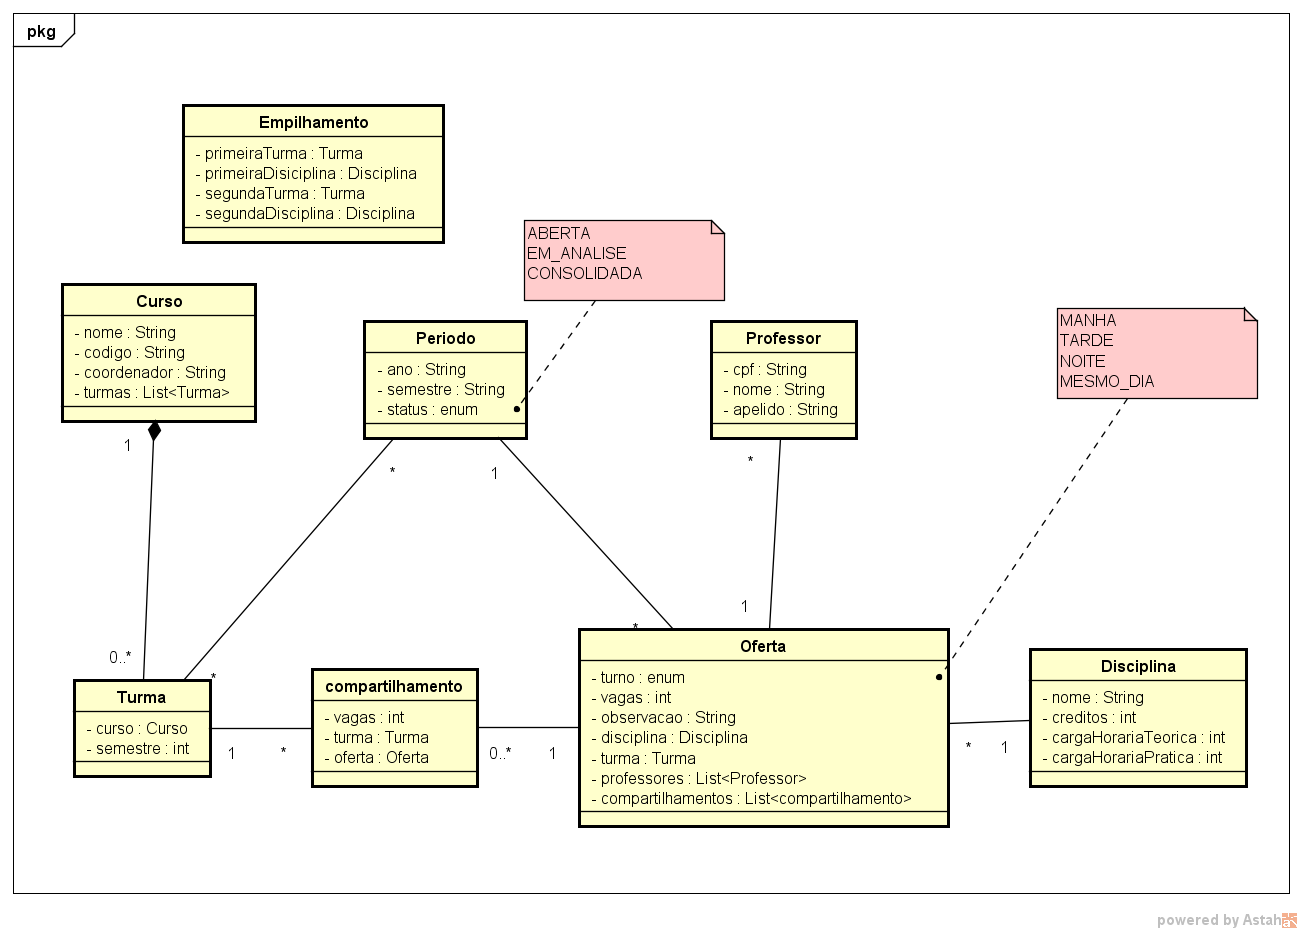
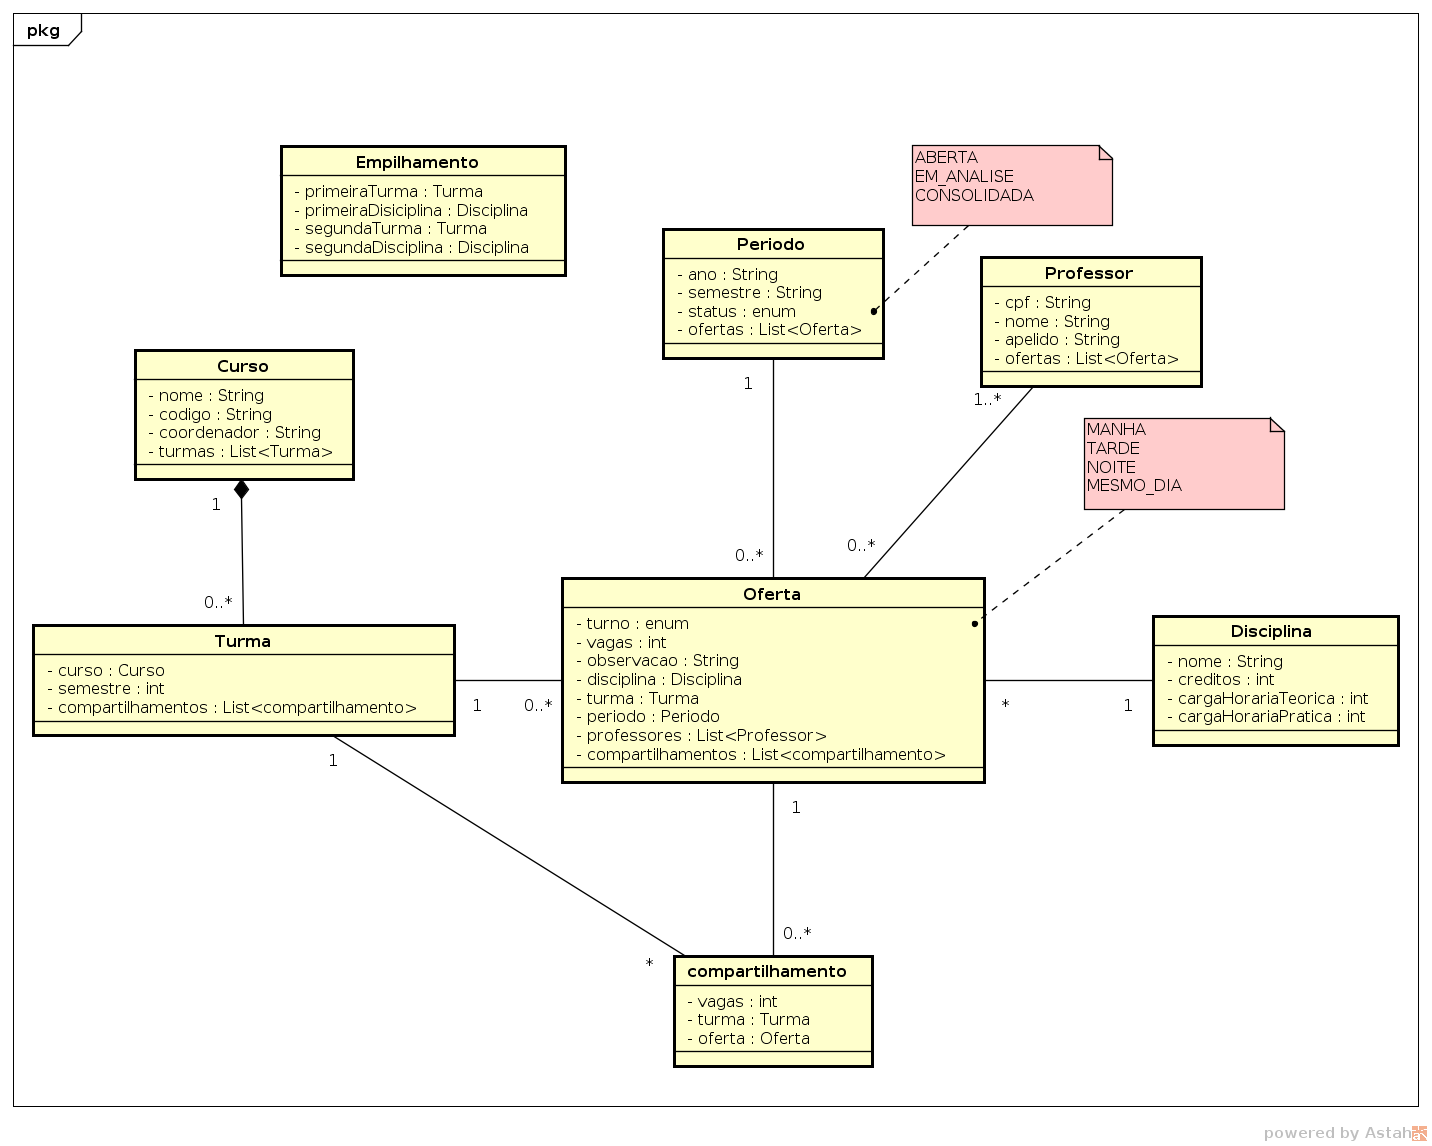
Ajustes nas classes de modelo.

diff --git a/aplicacao/alocacao-professores/src/main/java/ufc/quixada/npi/ap/model/Oferta.java b/aplicacao/alocacao-professores/src/main/java/ufc/quixada/npi/ap/model/Oferta.java
@@ -7,7 +7,6 @@ import java.util.TreeMap;
 import javax.persistence.Entity;
 import javax.persistence.EnumType;
 import javax.persistence.Enumerated;
-import javax.persistence.FetchType;
 import javax.persistence.GeneratedValue;
 import javax.persistence.GenerationType;
 import javax.persistence.Id;
@@ -19,11 +18,7 @@ import javax.persistence.OneToMany;
 
 @Entity
 public class Oferta {
-	
-	//TODO: periodo nome
-	//TODO: variavel de periodo pra oferta ou vice versa (NO MODEL),
-	//TODO: consertar as onetomany
-	//TODO: turma compartilhamento, turma deve ter lista de compartilhamentos ou vice versa?(NO MODEL E CODIGO)	
+		
 	@Id
 	@GeneratedValue(strategy = GenerationType.IDENTITY)
 	private Integer id;
@@ -33,23 +28,26 @@ public class Oferta {
 	private String observacao;
 	
 	@ManyToOne
+	@JoinColumn(name = "disciplina_id")
 	private Disciplina disciplina;
 	
 	@ManyToOne
+	@JoinColumn(name = "turma_id")
 	private Turma turma;
 	
 	@ManyToOne
+	@JoinColumn(name = "periodo_id")
 	private Periodo periodo;
 	
 	@Enumerated(EnumType.STRING)
 	private Turno turno;
 	
-	//@ManyToMany(fetch = FetchType.EAGER)
-	//@JoinTable(name = "professor_oferta", joinColumns = @JoinColumn(name = "oferta_id"), inverseJoinColumns = @JoinColumn(name = "professor_id"))
-	//private List<Professor> professores;
+	@ManyToMany
+	@JoinTable(name = "professor_oferta", joinColumns = @JoinColumn(name = "oferta_id"), inverseJoinColumns = @JoinColumn(name = "professor_id"))
+	private List<Professor> professores;
 	
-	//@OneToMany(fetch = FetchType.EAGER)
-	//private List<Compartilhamento> compartilhamentos;
+	@OneToMany(mappedBy = "oferta")	
+	private List<Compartilhamento> compartilhamentos;
 
 	public Integer getId() {
 		return id;
@@ -107,7 +105,7 @@ public class Oferta {
 		this.turno = turno;
 	}
 
-	/*public List<Professor> getProfessores() {
+	public List<Professor> getProfessores() {
 		return professores;
 	}
 
@@ -121,7 +119,9 @@ public class Oferta {
 
 	public void setCompartilhamentos(List<Compartilhamento> compartilhamentos) {
 		this.compartilhamentos = compartilhamentos;
-	}*/
+	}
+	
+	
 
 	enum Turno{
 		MANHA("Manhã"), TARDE("Tarde"), NOITE("Noite"), MESMO_DIA("Mesmo dia");

diff --git a/aplicacao/alocacao-professores/src/main/java/ufc/quixada/npi/ap/model/Turma.java b/aplicacao/alocacao-professores/src/main/java/ufc/quixada/npi/ap/model/Turma.java
@@ -1,11 +1,14 @@
 package ufc.quixada.npi.ap.model;
 
+import java.util.List;
+
 import javax.persistence.Entity;
 import javax.persistence.GeneratedValue;
 import javax.persistence.GenerationType;
 import javax.persistence.Id;
 import javax.persistence.JoinColumn;
 import javax.persistence.ManyToOne;
+import javax.persistence.OneToMany;
 
 @Entity
 public class Turma {
@@ -18,7 +21,10 @@ public class Turma {
 	@JoinColumn(name = "curso_id")
 	private Curso curso;
 	
-	private String semestre;
+	private int semestre;
+	
+	@OneToMany(mappedBy = "turma")
+	private List<Compartilhamento> compartilhamentos;
 
 	public Integer getId() {
 		return id;
@@ -36,12 +42,20 @@ public class Turma {
 		this.curso = curso;
 	}
 
-	public String getSemestre() {
+	public int getSemestre() {
 		return semestre;
 	}
 
-	public void setSemestre(String semestre) {
+	public void setSemestre(int semestre) {
 		this.semestre = semestre;
 	}
+
+	public List<Compartilhamento> getCompartilhamentos() {
+		return compartilhamentos;
+	}
+
+	public void setCompartilhamentos(List<Compartilhamento> compartilhamentos) {
+		this.compartilhamentos = compartilhamentos;
+	}	
 		
 }

diff --git a/aplicacao/alocacao-professores/src/main/java/ufc/quixada/npi/ap/model/Professor.java b/aplicacao/alocacao-professores/src/main/java/ufc/quixada/npi/ap/model/Professor.java
@@ -1,9 +1,14 @@
 package ufc.quixada.npi.ap.model;
 
+import java.util.List;
+
 import javax.persistence.Entity;
 import javax.persistence.GeneratedValue;
 import javax.persistence.GenerationType;
 import javax.persistence.Id;
+import javax.persistence.JoinColumn;
+import javax.persistence.JoinTable;
+import javax.persistence.ManyToMany;
 
 @Entity
 public class Professor {
@@ -17,6 +22,10 @@ public class Professor {
 	private String cpf;
 	
 	private String apelido;
+	
+	@ManyToMany
+	@JoinTable(name = "professor_oferta", joinColumns = @JoinColumn(name = "professor_id"), inverseJoinColumns = @JoinColumn(name = "oferta_id"))
+	private List<Oferta> ofertas;
 
 	public Integer getId() {
 		return id;
@@ -49,4 +58,14 @@ public class Professor {
 	public void setApelido(String apelido) {
 		this.apelido = apelido;
 	}
+
+	public List<Oferta> getOfertas() {
+		return ofertas;
+	}
+
+	public void setOfertas(List<Oferta> ofertas) {
+		this.ofertas = ofertas;
+	}
+	
+	
 }

diff --git a/aplicacao/alocacao-professores/src/main/java/ufc/quixada/npi/ap/model/Periodo.java b/aplicacao/alocacao-professores/src/main/java/ufc/quixada/npi/ap/model/Periodo.java
@@ -7,7 +7,6 @@ import java.util.TreeMap;
 import javax.persistence.Entity;
 import javax.persistence.EnumType;
 import javax.persistence.Enumerated;
-import javax.persistence.FetchType;
 import javax.persistence.GeneratedValue;
 import javax.persistence.GenerationType;
 import javax.persistence.Id;
@@ -27,7 +26,7 @@ public class Periodo {
 	@Enumerated(EnumType.STRING)
 	private Status status;
 	
-	@OneToMany(fetch = FetchType.EAGER)
+	@OneToMany(mappedBy = "periodo")
 	private List<Oferta> ofertas;
 
 	public Integer getId() {
@@ -69,6 +68,8 @@ public class Periodo {
 	public void setOfertas(List<Oferta> ofertas) {
 		this.ofertas = ofertas;
 	}
+	
+	
 
 	enum Status{
 		ABERTA("Aberta"), EM_ANALISE("Em análise"), CONSOLIDADA("consolidada");

diff --git a/aplicacao/alocacao-professores/src/main/java/ufc/quixada/npi/ap/model/Curso.java b/aplicacao/alocacao-professores/src/main/java/ufc/quixada/npi/ap/model/Curso.java
@@ -3,11 +3,9 @@ package ufc.quixada.npi.ap.model;
 import java.util.List;
 
 import javax.persistence.Entity;
-import javax.persistence.FetchType;
 import javax.persistence.GeneratedValue;
 import javax.persistence.GenerationType;
 import javax.persistence.Id;
-import javax.persistence.JoinColumn;
 import javax.persistence.OneToMany;
 
 @Entity
@@ -22,7 +20,6 @@ public class Curso {
 	private String codigo;
 	
 	private String coordenador;
-	
 	
 	@OneToMany(mappedBy = "curso")
 	private List<Turma> turmas;
@@ -66,5 +63,6 @@ public class Curso {
 	public void setTurmas(List<Turma> turmas) {
 		this.turmas = turmas;
 	}	
+	
 	
 }

diff --git a/aplicacao/alocacao-professores/src/main/java/ufc/quixada/npi/ap/model/Compartilhamento.java b/aplicacao/alocacao-professores/src/main/java/ufc/quixada/npi/ap/model/Compartilhamento.java
@@ -4,6 +4,7 @@ import javax.persistence.Entity;
 import javax.persistence.GeneratedValue;
 import javax.persistence.GenerationType;
 import javax.persistence.Id;
+import javax.persistence.JoinColumn;
 import javax.persistence.ManyToOne;
 
 @Entity
@@ -16,9 +17,11 @@ public class Compartilhamento {
 	private int vagas;
 	
 	@ManyToOne
+	@JoinColumn(name = "turma_id")
 	private Turma turma;
 	
 	@ManyToOne
+	@JoinColumn(name = "oferta_id")
 	private Oferta oferta;
 
 	public Integer getId() {
